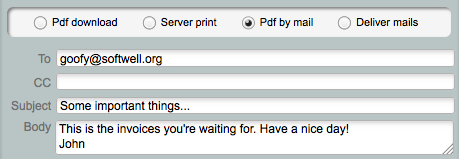
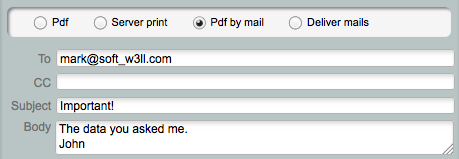
doc update

diff --git a/gnrpy/gnr/core/gnrbagxml.py b/gnrpy/gnr/core/gnrbagxml.py
@@ -36,20 +36,17 @@ REGEX_XML_ILLEGAL = re.compile(r'<|>|&')
 
 class _BagXmlException(Exception): pass
 
-
 class BagFromXml(object):
-    """add???
-    """
+    """The class that handles the conversion from the XML format to the
+    :class:`Bag <gnr.core.gnrbag.Bag>` class"""
     def build(self, source, fromFile, catalog=None, bagcls=Bag, empty=None):
         """add???
         
         :param source: add???
         :param fromFile: add???
-        :param catalog: add???. 
-        :param bagcls: add???. Default value is ``Bag``
-        :param empty: add???. 
-        :returns: add???
-        """
+        :param catalog: add???
+        :param bagcls: add???
+        :param empty: add???"""
         if not bagcls: bagcls = Bag
         done = False
         testmode = False
@@ -92,9 +89,7 @@ class BagFromXml(object):
         :param catalog: add???. 
         :param bagcls: add???. Default value is ``Bag``
         :param empty: add???. 
-        :param testmode: add???. Default value is ``False``
-        :returns: add???
-        """
+        :param testmode: add???. Default value is ``False``"""
         if not testmode:
             bagImport = _SaxImporter()
         else:
@@ -122,13 +117,13 @@ class BagFromXml(object):
 class _SaxImporterError(sax.handler.ErrorHandler):
     def error(self, error):
         pass
-
+        
     def fatalError(self, error):
         pass
-
+        
     def warning(self, error):
         pass
-
+        
 class _SaxImporter(sax.handler.ContentHandler):
     def startDocument(self):
         self.bags = [[Bag(), None]]
@@ -172,7 +167,7 @@ class _SaxImporter(sax.handler.ContentHandler):
                 self.bags.append((self.bagcls(), attributes))
         self.valueList = []
 
-    def characters (self, s):
+    def characters(self, s):
         if s == '\n': self.valueList.append(s)
         #s=s.strip()
         if not self.valueList or self.valueList[-1] == '\n':
@@ -225,18 +220,15 @@ class _SaxImporter(sax.handler.ContentHandler):
             dest.nodes.append(BagNode(dest, tagLabel, curr, attributes, _removeNullAttributes=False))
         else:
             dest.nodes.append(BagNode(dest, tagLabel, curr))
-
-
+            
 class BagToXml(object):
-    """add???
-    """
+    """The class that handles the conversion from the :class:`Bag <gnr.core.gnrbag.Bag>`
+    class to the XML format"""
     def nodeToXmlBlock(self, node):
         """Handle all the different node types, call the method build tag and return its result.
         
-        :param node: add???
-        :returns: the XML tag that represent self BagNode.
-        """
-
+        :param node: the :meth:`BagNode <gnr.core.gnrbag.BagNode>`
+        :returns: the XML tag that represent the BagNode"""
         nodeattr = dict(node.attr)
         if '__forbidden__' in nodeattr:
             return ''
@@ -298,28 +290,26 @@ class BagToXml(object):
         Is also possible to write the result on a file, passing the path of the file as the ``filename`` parameter.
         
         :param bag: the Bag to transform in a XML block version
-        :param filename: the path of the output file. 
+        :param filename: the path of the output file
         :param encoding: allow to set the XML encoding. Default value is ``UTF-8``
-        :param catalog: add???. 
-        :param typeattrs: add???. Default value is ``True``
-        :param typevalue: add???. Default value is ``True``
-        :param addBagTypeAttr: add???. Default value is ``True``
-        :param onBuildTag: add???. 
-        :param unresolved: add???. Default value is ``False``
-        :param autocreate: add???. Default value is ``False``
-        :param docHeader: add???. 
-        :param self_closed_tags: add???. 
-        :param translate_cb: add???. 
-        :param omitUnknownTypes: add???. Default value is ``False``
-        :param omitRoot: add???. Default value is ``False``
-        :param forceTagAttr: add???. 
-        :returns: an XML version of the bag.
+        :param catalog: add???
+        :param typeattrs: add???
+        :param typevalue: add???
+        :param addBagTypeAttr: add???
+        :param onBuildTag: add???
+        :param unresolved: add???
+        :param autocreate: add???
+        :param docHeader: add???
+        :param self_closed_tags: add???
+        :param translate_cb: add???
+        :param omitUnknownTypes: add???
+        :param omitRoot: add???
+        :param forceTagAttr: add???
         
         >>> mybag = Bag()
         >>> mybag['aa.bb'] = 4567
         >>> mybag.toXml()
-        '<?xml version=\'1.0\' encoding=\'iso-8859-15\'?><GenRoBag><aa><bb T="L">4567</bb></aa></GenRoBag>'
-        """
+        '<?xml version=\'1.0\' encoding=\'iso-8859-15\'?><GenRoBag><aa><bb T="L">4567</bb></aa></GenRoBag>'"""
         result = docHeader or "<?xml version='1.0' encoding='" + encoding + "'?>\n"
         if not catalog:
             catalog = gnrclasses.GnrClassCatalog()
@@ -357,11 +347,10 @@ class BagToXml(object):
         
         :param tagName: add???
         :param value: add???
-        :param attributes: add???. 
-        :param cls: add???. Default value is `` ``
-        :param xmlMode: add???. Default value is ``False``
-        :returns: the XML tag that represent self BagNode.
-        """
+        :param attributes: add???
+        :param cls: add???
+        :param xmlMode: add???
+        :returns: the XML tag that represent self BagNode"""
         #if value == None:
         #    value = ''
         if self.onBuildTag:

diff --git a/docs/genro/print/print_settings.rst b/docs/genro/print/print_settings.rst
@@ -218,12 +218,12 @@ print setting dialog - print region
     In the print regions you can swap up to 4 frames through a :ref:`radiobutton group <radiobutton>`.
     The 4 frames are:
     
-    #. **PDF download**:
+    #. **PDF (download)**:
     
-       .. image:: ../_images/print/print_pdf_download.png
+       .. image:: ../_images/print/print_pdf.png
        
-       From this pane user can choose a name for the saved file and can choose through a :ref:`checkbox`
-       to save the file in a zip format.
+       From this pane user can choose a name for the saved file and can choose through
+       a :ref:`checkbox` to save the file in a zip format.
        
     #. **Server print**:
     
@@ -246,9 +246,9 @@ print setting dialog - print region
     
        .. image:: ../_images/print/print_deliver_mails.png
        
-       From this pane user can deliver emails.
-       
-       add???
+       From this pane you can send emails to the same fields of the query used to get data in the
+       database. This is made automatically (for this reason the ``TO`` field is hidden: the ``TO``
+       recipient is filled with the emails of the query fields (add??? Explain how, explain better...)
        
 .. _print_settings_location:
 
